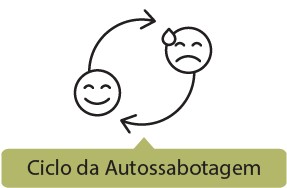
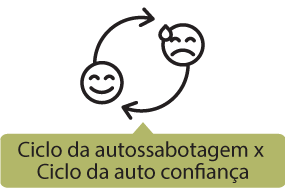
Correções finais

Changed region(s): [[0.0, 0.0266, 1.0, 1.0]]

diff --git a/src/pages/atualizar/vitimizacao/vitimizacao.html b/src/pages/atualizar/vitimizacao/vitimizacao.html
@@ -16,27 +16,26 @@
   </div>
   <div text-left>
     <p>
-      <b>Vitimizar</b> – é um comportamento autossabotador quando recorrentemente você atribui a responsabilidade de
-      seu sucesso ou seu fracasso ao outro,
-      nunca a você. Você é sempre refém de algo. Saia do lugar de vítima, dos seus pais, das pessoas ao seu redor,
-      do seu trabalho, do seu casamento,
-      dos seus filhos, do seu dinheiro, etc. O processo de vitimização diante do mundo provoca um sentimento
-      profundamente limitador e faz você se ver
-      impotente para mudar qualquer coisa, pois sempre se sentirá preso em algo. Se vitimizar é se sentir impedido por
-      algo externo a você. E se ver
-      totalmente incapaz para alcançar o que deseja diante das idealizações que você construiu.
+      <b>Vitimizar</b> – é um dos comportamentos autossabotadores mais destrutivos, ele acontece quando
+      recorrentemente você atribui a responsabilidade de seu sucesso ou seu fracasso ao outro, nunca a você. Você é
+      sempre refém de algo. Saia do lugar de vítima, dos seus pais, das pessoas ao seu redor, do seu trabalho, do seu
+      casamento, dos seus filhos, do seu dinheiro, etc. O processo de vitimização diante do mundo provoca um
+      sentimento profundamente limitador e faz você se ver impotente para mudar qualquer coisa, pois sempre se
+      sentirá preso em algo. Se vitimizar é se sentir impedido por algo externo a você. E se ver totalmente incapaz
+      para alcançar o que deseja diante das idealizações que você construiu.
     </p>
     <p>Por exemplo: meu relacionamento acabou pela crise/dificuldade financeira. Estou endividado porque meu amigo não
       me pagou o dinheiro que emprestei.</p>
     <p>
-      <b>Autonomia</b> – é um comportamento autoconfiante quando você assume a responsabilidade do que está fazendo
-      em qualquer momento de sua vida.
-      Assumir sua responsabilidade nos acontecimentos de sua vida sempre te possibilita alterar sua atitude e melhorar o
-      que você não gosta, não quer.
-      É ter um sentimento de capacidade diante de qualquer momento da sua vida bom ou ruim. Se aproprie de sua
-      autonomia. Veja o que você tem.
-      Exerça sua Autoliderança Emocional, seja autônomo com suas possibilidades e não se prenda nas suas
-      impossibilidades momentâneas.
+      <b>Autonomia</b> – é um dos comportamentos autoconfiantes mais transformadores . Ele acontece quando você assume a
+      responsabilidade do que está fazendo em qualquer momento de sua vida. Aqui você dá poder à única pessoa capaz de
+      mudar positivamente sua vida: você. É neste momento que você se apropria que a única possibilidade de controle que
+      você tem é de você mesmo. Você para de gastar energia com o que não está ao seu alcance. Isso quer dizer que
+      assumir sua responsabilidade nos acontecimentos de sua vida sempre te possibilita alterar sua atitude e melhorar o
+      que você quiser. É ter um sentimento de capacidade diante de qualquer momento da sua vida bom ou ruim. Se
+      aproprie de sua autonomia. Veja o que você tem. Elimine o pensamento do que você não tem. Exerça sua
+      Autoliderança Emocional, seja autônomo com suas possibilidades e não se prenda nas suas impossibilidades
+      momentâneas.
     </p>
     <p>
       Por exemplo: meu relacionamento acabou porque eu não soube lidar com a crise financeira. O que posso fazer agora?

diff --git a/src/pages/atualizar/autosabotagem/autosabotagem.html b/src/pages/atualizar/autosabotagem/autosabotagem.html
@@ -29,13 +29,13 @@
       satisfeito, realizado e feliz com sua vida, sendo líder em você.
     </p>
     <p>
-      As crenças negativas que você constrói no decorrer de sua vida te fazem construir junto um ciclo de autossabotagem
+      As crenças negativas que você constrói no decorrer de sua vida quando enrijecidas te fazem construir junto um ciclo de autossabotagem
       que
       muitas vezes, sem se dar conta dele, você se vê sempre no mesmo lugar, repetindo os mesmos erros e sentindo total
       desesperança que possa mudar.
     </p>
     <p>
-      Comportamentos autossabotadores são aqueles que te acomodam e estagnam, proporcionando sentimentos de
+      Comportamentos autossabotadores são aqueles que te acomodam no incômodo e estagnam, proporcionando sentimentos de
       incapacidade,
       inferioridade e baixa autoestima diante dos outros e do mundo ao seu redor, impedindo você de sentir que seu
       comportamento,
@@ -43,7 +43,9 @@
       vida.
     </p>
     <p>
-      Já os comportamentos autoconfiantes são aqueles que te motivam, estimulam a se apropriar de quem você é, que
+      Já as crenças positivas que você constrói ao longo de sua vida, sempre atualizadas te fazem construir o seu ciclo da
+      autoconfiança em que você sempre se vê tendo escolha e saída para qualquer situação que esteja vivendo.
+      Os comportamentos autoconfiantes são aqueles que te motivam, estimulam a se apropriar de quem você é, que
       realidade você tem e o que pode fazer para desfrutar do que realmente é bom ou alterar o que realmente for ruim.
       Proporcionando sentimentos de capacidade, autonomia e orgulho de você mesmo diante dos outros e do mundo ao seu
       redor,

diff --git a/src/pages/pratique/diario/diario.html b/src/pages/pratique/diario/diario.html
@@ -16,12 +16,16 @@
   </div>
   <div text-left>
     <p>
-      Neste tempo estabelecido e cumprido por você, faça um diário pró ativo, para que você escreva diariamente nestes
-      70 dias tudo que quiser planejar (se lembre sempre: um caminho consolidado começa no primeiro passo). Não se
-      disperse agora escrevendo possibilidade de meses ou anos. Consolide primeiro seu momento atual, posteriormente
-      virão os planejamentos mensais e anuais. Planejamento pró ativo tem resultado a curto, médio e longo prazo.
-      Comece pelo curto, estabeleça metas reais e as assuma como compromisso. Faça isso publicamente, compartilhando com
-      pessoas de sua confiança.
+      Neste tempo estabelecido e cumprido por você, faça um diário pró ativo, para que você escreva
+      diariamente nestes 21 dias tudo que quiser planejar (se lembre sempre: um caminho consolidado
+      começa no primeiro passo). Não se disperse agora escrevendo possibilidade de meses ou anos.
+      Consolide primeiro seu momento atual, posteriormente virão os planejamentos mensais e anuais.
+      Planejamento pró ativo tem resultado a curto, médio e longo prazo.
+      Comece pelo curto, estabeleça metas reais e as assuma como compromisso. Faça isso publicamente,
+      compartilhando com pessoas de sua confiança.
+    </p>
+    <p>
+      Repita durante 70 dias.
     </p>
   </div>
 </ion-content>

diff --git a/src/pages/recurso/recurso.html b/src/pages/recurso/recurso.html
@@ -11,6 +11,22 @@
 </ion-header>
 
 <ion-content>
+  <div text-center>
+    <img src="assets/imgs/recurso/internas/musica.png">
+  </div>
+  <div text-left>
+    <p>
+      Alternativas pró ativas são aquelas que tem a capacidade de validar e reforçar as suas
+      novas atitudes e comportamentos autoconfiantes. Livros, filmes e músicas são grandes
+      gatilhos no processo de desenvolvimento da Autoliderança Emocional, conseguindo
+      simbolizar e expressar mensagens significativas para o processo de mudança e
+      crescimento em sua vida.
+    </p>
+    <p>
+      Aqui você sempre encontrará sugestões e indicações coerentes com o tema liderança em
+      você e sua Autoliderança Emocional.
+    </p>
+  </div>
   <ion-list>
     <ion-item class="transparente" (click)="openLeitura()">
       <ion-thumbnail item-start>

diff --git a/src/pages/pratique/foco/foco.html b/src/pages/pratique/foco/foco.html
@@ -16,8 +16,8 @@
   </div>
   <div text-left>
     <p>
-      Estas três características já descritas no item 1G (Que possibilidades pode utilizar?) unidas são fundamentais em
-      todo comportamento líder e em toda capacidade de Autoliderança Emocional.
+      Estas três características já descritas no item “Que recursos pode utilizar?” na aba Utilizando o aplicativo unidas
+      são fundamentais em todo comportamento líder e em toda capacidade de Autoliderança Emocional.
     </p>
     <p>Ter foco é saber o que você quer, definindo com clareza real o que pretende alcançar.</p>
     <p>
